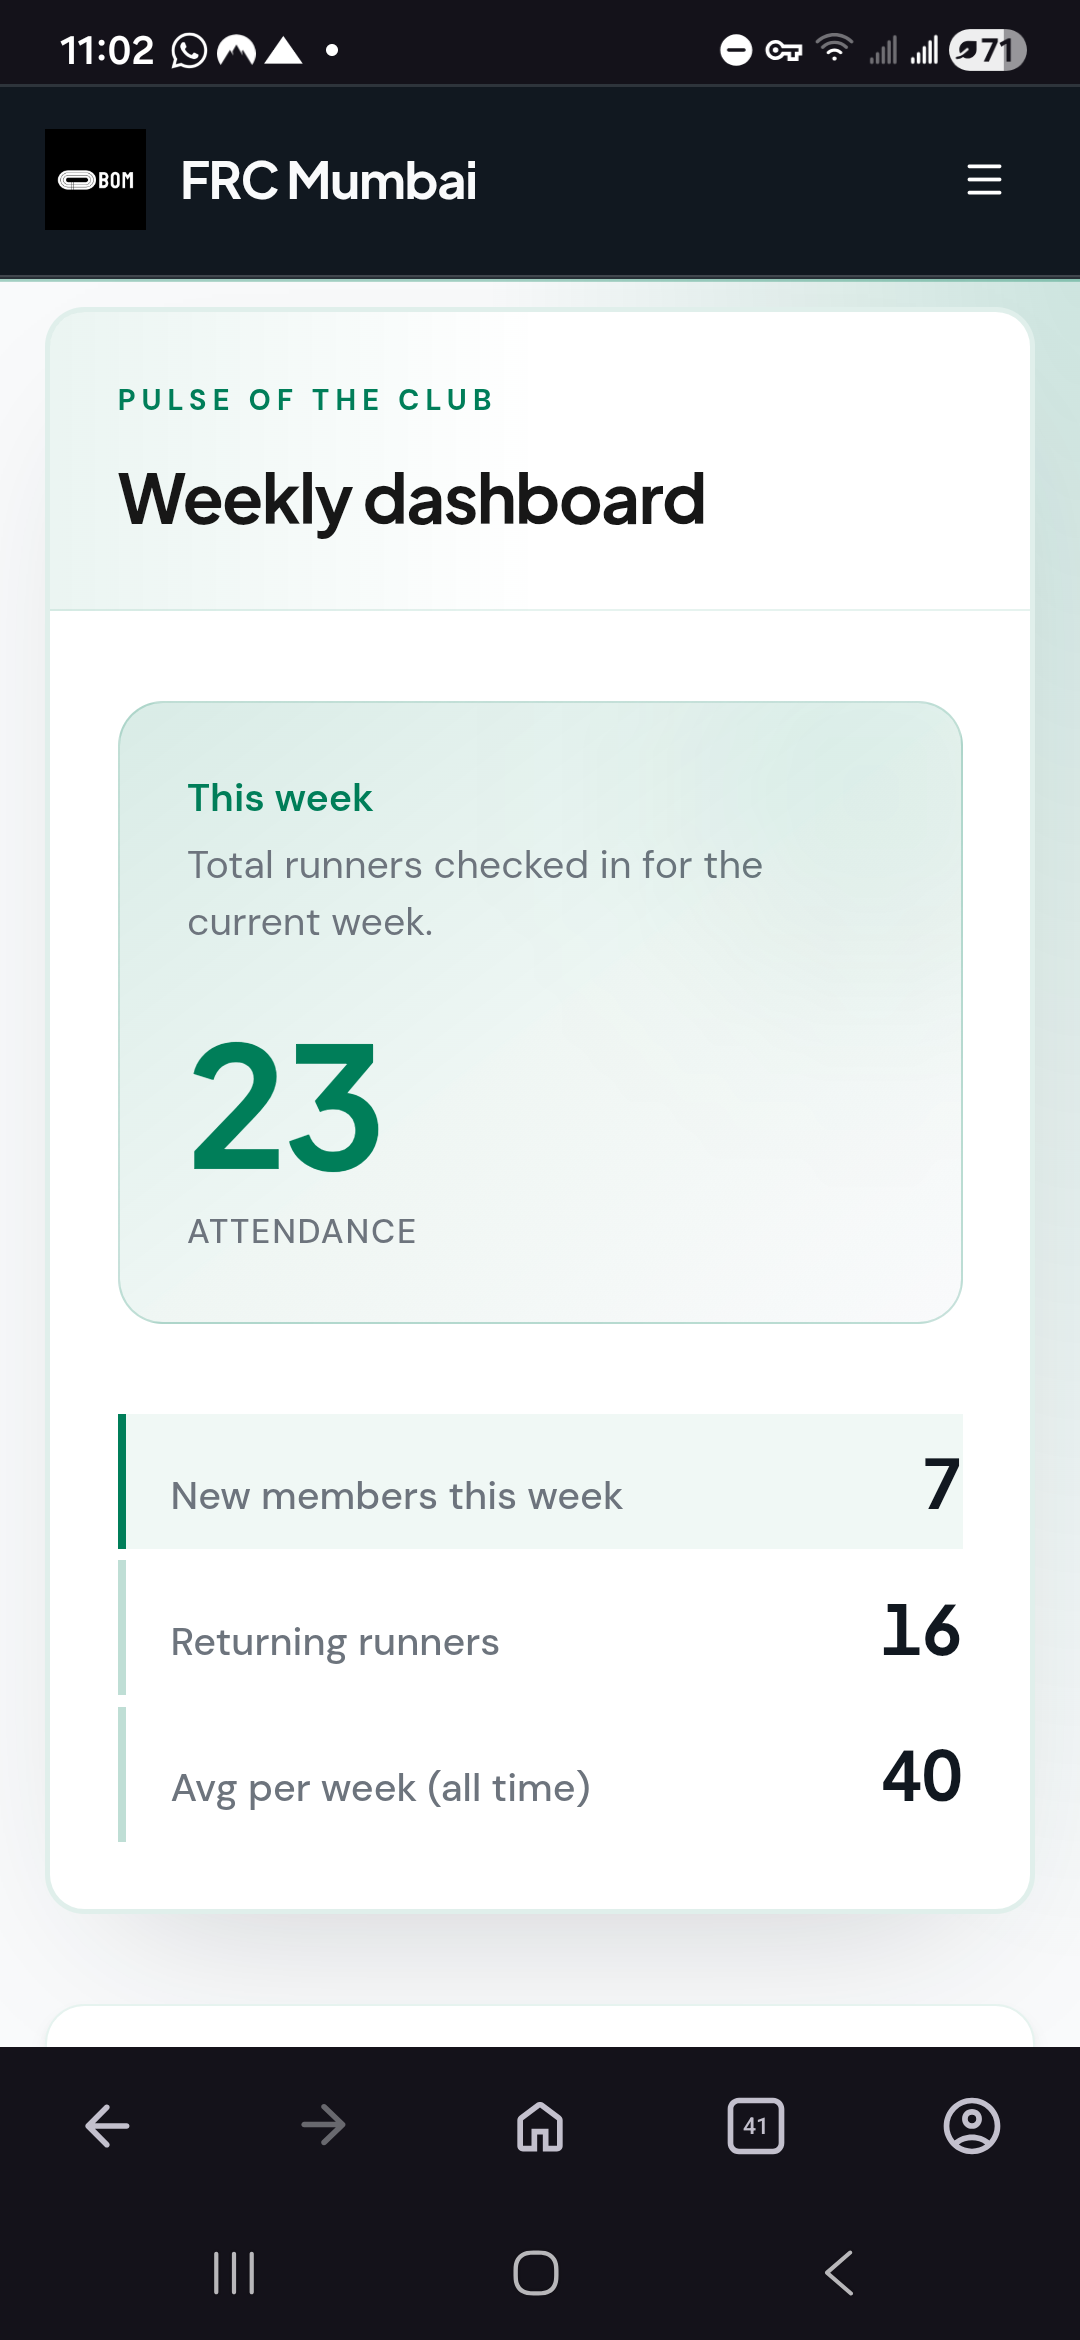
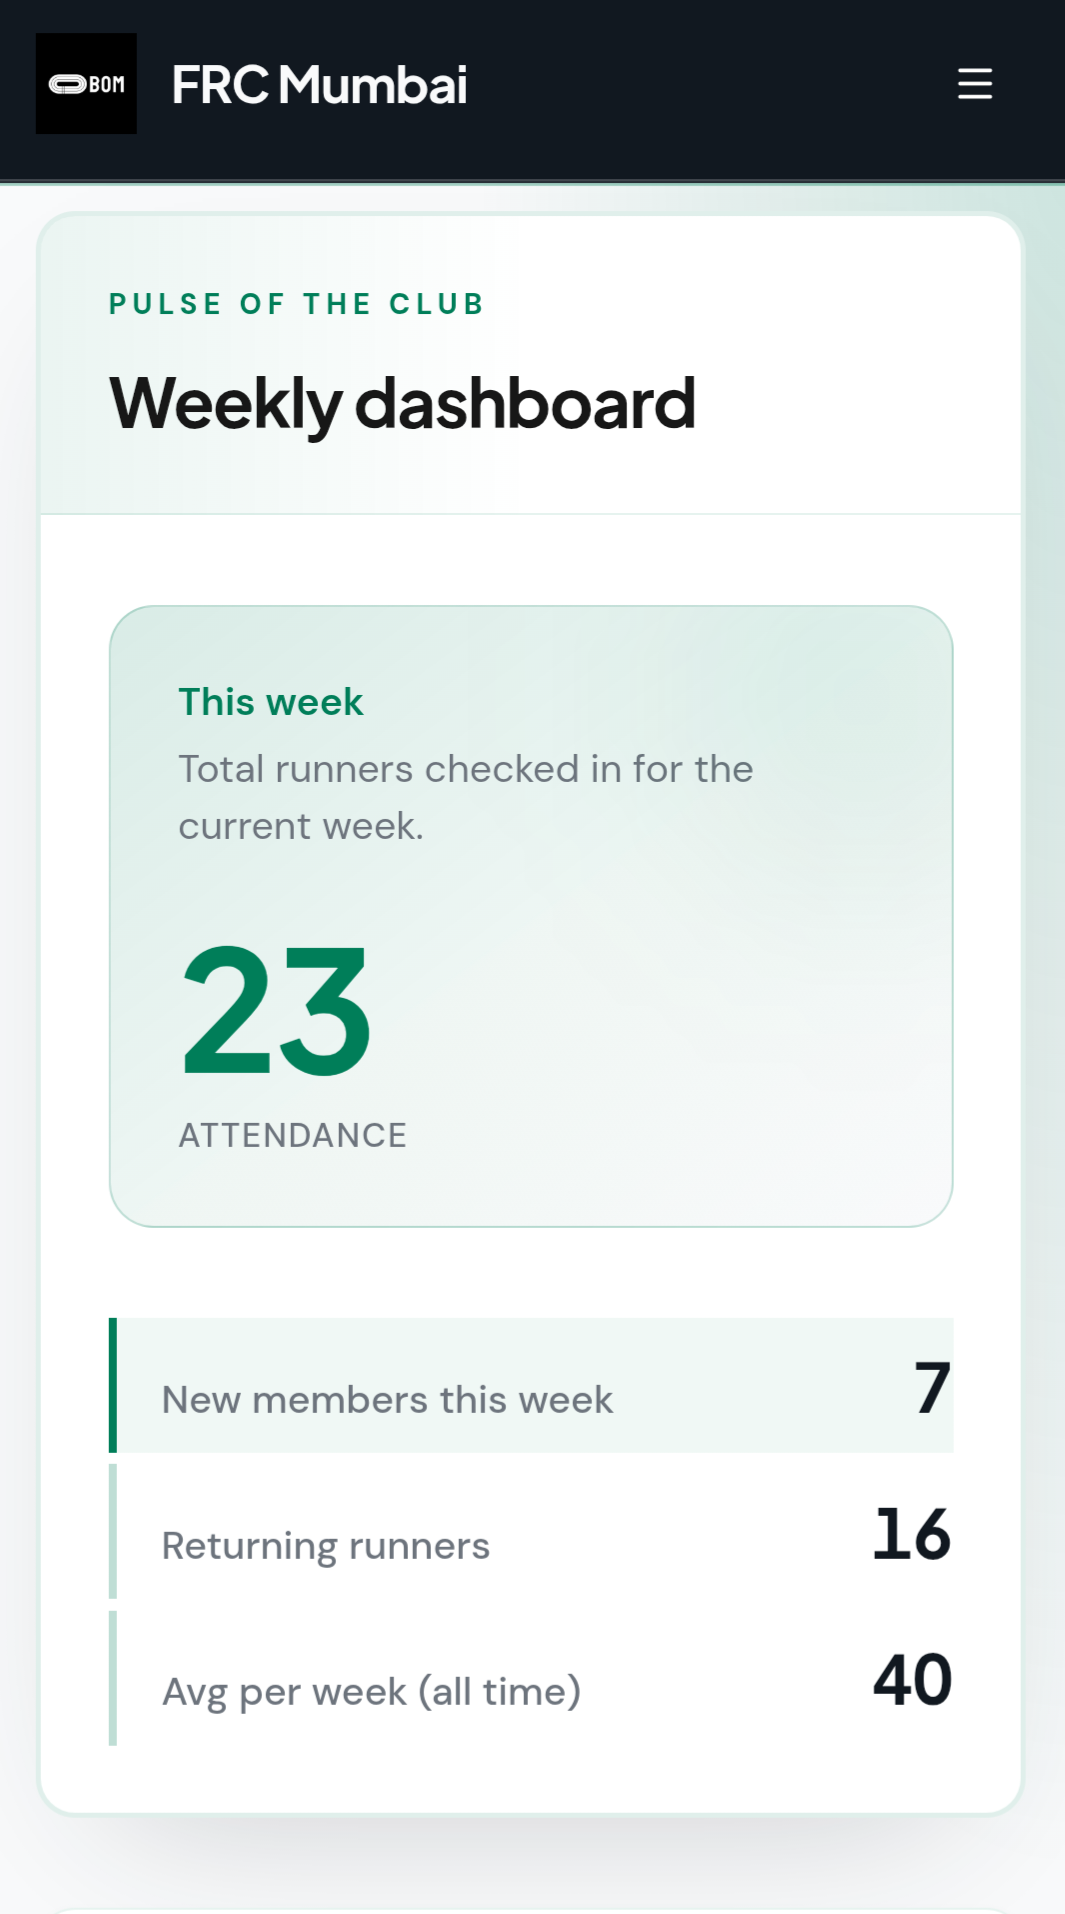
Replace dashboard screenshot and switch to 2x2 grid layout
https://claude.ai/code/session_01QCUeZb695PmHKoxMTexrwy

diff --git a/README.md b/README.md
@@ -6,9 +6,13 @@ A mobile-friendly web app for tracking weekly run club attendance. Built for FRC
 
 ## Screenshots
 
-| Check-In | Dashboard | History | Add Member |
-|----------|-----------|---------|------------|
-| ![Check-in screen](docs/screenshots/check-in.png) | ![Weekly dashboard](docs/screenshots/dashboard.png) | ![Attendance history](docs/screenshots/history.png) | ![Add new member](docs/screenshots/add-member.png) |
+| Check-In | Dashboard |
+|----------|-----------|
+| ![Check-in screen](docs/screenshots/check-in.png) | ![Weekly dashboard](docs/screenshots/dashboard.png) |
+
+| History | Add Member |
+|---------|------------|
+| ![Attendance history](docs/screenshots/history.png) | ![Add new member](docs/screenshots/add-member.png) |
 
 ## Features
 
